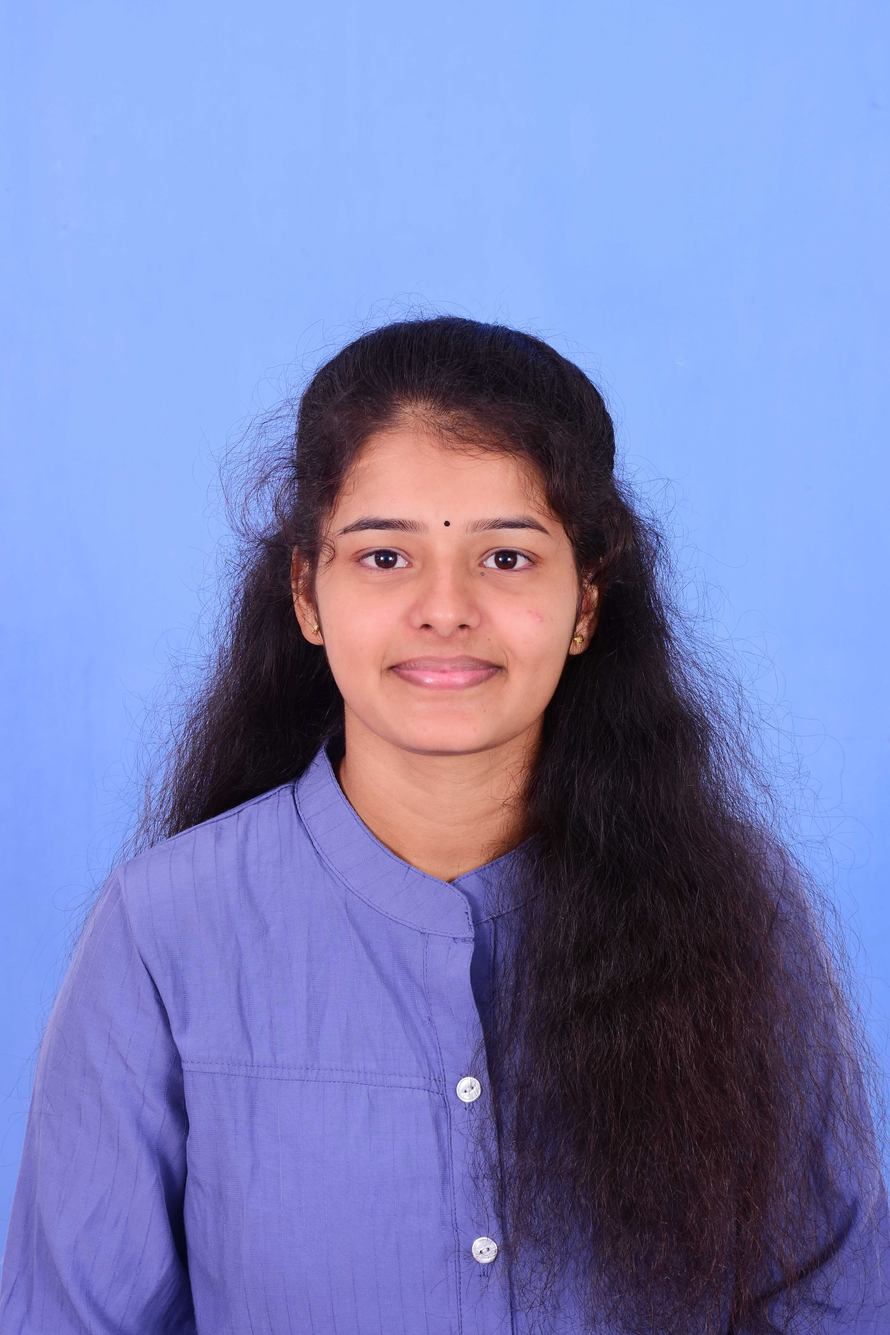
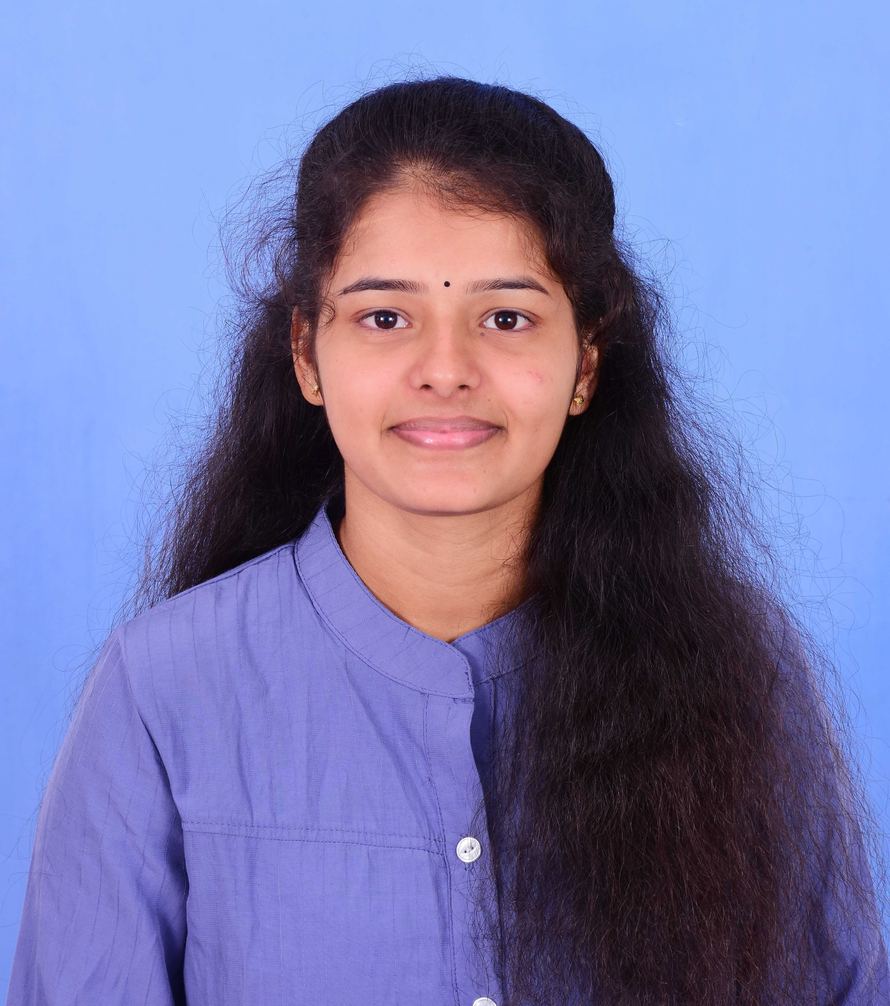
css

diff --git a/index.html b/index.html
@@ -36,7 +36,7 @@
             <span class="word">Fullstack&nbsp; Developer</span>
             <span class="word">Web&nbsp; Designer</span>
             <span class="word">Frontend&nbsp; Developer</span>
-        
+            <span class="word">Wordpress&nbsp; Developer</span>
             <span class="word">Graphic&nbsp; Designer</span>
            
         </h3>
@@ -69,7 +69,7 @@
 
 <div class="home-image scroll-scale">
     <div class="img-box">
-        <img src="assets/shalini.jpg" alt="n">
+        <img src="assets/shaly.JPG" alt="n">
     </div>
 
 </div>
@@ -200,45 +200,50 @@
     <div class="containe">
       <div class="project-card">
         <div class="blog-image">
-            <a href="#"><img src="assets/certificates/php.png" class="img-responsive" alt=""/></a>
+            <a href="./assets/certificates/php.png"><img src="assets/certificates/php.png" class="img-responsive" alt=""/></a>
           </div>
       </div>
 
       <div class="project-card">
         <div class="blog-image">
-            <a href="#"><img src="assets/certificates/mono1.png" class="img-responsive" alt=""/></a>
+            <a href="./assets/certificates/mono1.png"><img src="assets/certificates/mono1.png" class="img-responsive" alt=""/></a>
           </div>
       </div>
       <div class="project-card">
         <div class="blog-image">
-            <a href="#"><img src="assets/certificates/solo.png" class="img-responsive" alt=""/></a>
+            <a href="./assets/certificates/solo.png"><img src="assets/certificates/solo.png" class="img-responsive" alt=""/></a>
           </div>
       </div>
       
       <div class="project-card">
         <div class="blog-image">
-            <a href="#"><img src="assets/certificates/mern.png" class="img-responsive" alt=""/></a>
+            <a href="./assets/certificates/mern.png"><img src="assets/certificates/mern.png" class="img-responsive" alt=""/></a>
           </div>
       </div>
       <div class="project-card">
         <div class="blog-image">
-            <a href="#"><img src="assets/certificates/mora.png" class="img-responsive" alt=""/></a>
+            <a href="./assets/certificates/mora.png"><img src="assets/certificates/mora.png" class="img-responsive" alt=""/></a>
           </div>
       </div>
       <div class="project-card">
         <div class="blog-image">
-            <a href="#"><img src="assets/certificates/uiux.png" class="img-responsive" alt=""/></a>
+            <a href="./assets/certificates/uiux.png"><img src="assets/certificates/uiux.png" class="img-responsive" alt=""/></a>
           </div>
       </div>
       <div class="project-card">
         <div class="blog-image">
-            <a href="#"><img src="assets/certificates/mongo2.png" class="img-responsive" alt=""/></a>
+            <a href="./assets/certificates/mongo2.png"><img src="assets/certificates/mongo2.png" class="img-responsive" alt=""/></a>
           </div>
       </div>
 
       <div class="project-card">
         <div class="blog-image">
-            <a href="#"><img src="assets/certificates/wordpress.png" class="img-responsive" alt=""/></a>
+            <a href="./assets/certificates/wordpress.png"><img src="assets/certificates/wordpress.png" class="img-responsive" alt=""/></a>
+          </div>
+      </div>
+      <div class="project-card">
+        <div class="blog-image">
+            <a href="./assets/certificates/uki.jpeg"><img src="assets/certificates/uki.jpeg" class="img-responsive" alt=""/></a>
           </div>
       </div>
     </div>
@@ -343,14 +348,14 @@
                 </div>
                 <div class="skill-card">
                     <div class="skill-card-content">
-                        <img src="./assets/tool6.png" alt="CSS" class="skill-image">
+                        <img src="./assets/skills/node-js-icon-454x512-nztofx17.png" alt="CSS" class="skill-image">
                     </div>
                     <p class="skill-name">Node js</p>
                     </div>
         
                     <div class="skill-card">
                     <div class="skill-card-content">
-                        <img src="./assets/tool1.png" alt="JavaScript" class="skill-image">
+                        <img src="./assets/skills/expressjs_logo_icon_169185.webp" alt="JavaScript" class="skill-image">
                     </div>
                     <p class="skill-name">Express js</p>
                     </div>
@@ -397,8 +402,8 @@
                             <p class="skill-name">Tailwind</p>
                             </div>
                             <div class="skill-card">
-                                <div class="skill-card-content">
-                                    <img src="./assets/skills/wordpress.svg" alt="JavaScript" class="skill-image">
+                           <div class="skill-card-content">
+                                    <img src="./assets/tool9.png" alt="JavaScript" class="skill-image">
                                 </div>
                                 <p class="skill-name">Wordpress</p>
                                 </div>
@@ -605,7 +610,7 @@
     </div>
     
     <div>
-      <div class="sphere tool9"></div>
+      <div class="sphere tool8"></div>
       <p class="text">Node js</p>
     </div>
     <div>

diff --git a/style.css b/style.css
@@ -842,9 +842,9 @@ text-align: center;
   .tool3 { background-image: url('assets/tool3.png'); }
   .tool4 { background-image: url('assets/tool4.png'); }
   .tool5 { background-image: url('assets/tool5.png'); }
-  .tool6 { background-image: url('assets/tool6.png'); }
+  .tool6 { background-image: url('./assets/tool6.png'); }
   .tool7 { background-image: url('assets/tool7.png'); }
-  .tool8 { background-image: url('assets/tool8.png'); }
+  .tool8 { background-image: url('./assets/skills/node-js-icon-454x512-nztofx17.png'); }
   .tool9 { background-image: url('assets/tool9.png'); }
   
   .text {
@@ -1166,7 +1166,9 @@ footer a i{
         font-size: .8rem;
 
      }
-    
+     .education{
+        padding: 45px;
+     }
      .img-about img{
           /* max-width: 100%; */
          width: 300px;

diff --git a/script.js b/script.js
@@ -3,13 +3,13 @@ document.addEventListener("DOMContentLoaded", () => {
 
   words.forEach((word) => {
       let letters = word.textContent.split("");
-      word.textContent = ""; // Clear the original text content
+      word.textContent = "";
 
       letters.forEach((letter) => {
           let span = document.createElement("span");
-          span.textContent = letter; // Set span content to the letter
-          span.className = "letter"; // Apply initial class to span
-          word.append(span); // Append span to the word container
+          span.textContent = letter; 
+          span.className = "letter"; 
+          word.append(span); 
       });
   });
 
